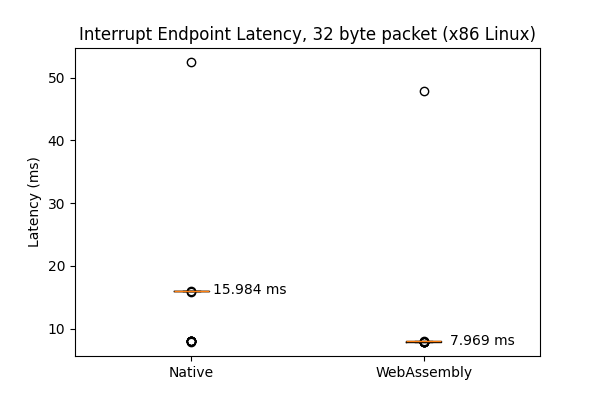
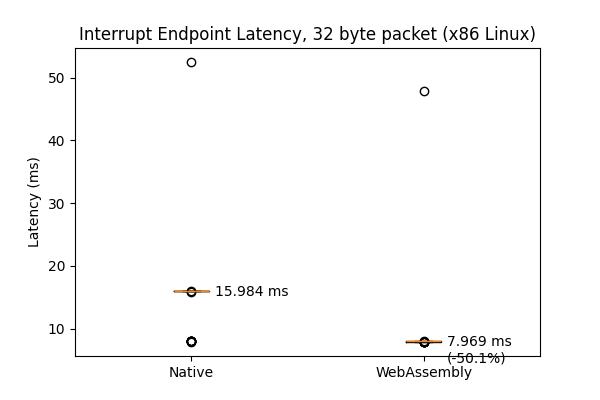
updated figures

Changed region(s): [[0.75, 0.84, 0.87, 0.93], [0.36, 0.69, 0.48, 0.75]]

diff --git a/analyse.py b/analyse.py
@@ -25,31 +25,53 @@ def add_labels_barplot(y):
     ylim = plt.gca().get_ylim()
     yrange = ylim[1] - ylim[0]
     for i in range(len(y)):
-        plt.text(i, y[i] + yrange * 0.0075, f"{y[i]:.0f} kB", ha="center", va="bottom")
+        if i % 2 == 0:
+            plt.text(
+                i, y[i] + yrange * 0.0075, f"{y[i]:.0f} kB", ha="center", va="bottom"
+            )
+        else:
+            percentage_increase = (y[i] - y[i - 1]) / y[i - 1] * 100
+            plt.text(
+                i,
+                y[i] + yrange * 0.0075,
+                f"{y[i]:.0f} kB ({percentage_increase:+.1f}%)",
+                ha="center",
+                va="bottom",
+            )
 
 
 def add_labels_boxplot(y, unit: str, precision: int = 0):
     ylim = plt.gca().get_ylim()
     yrange = ylim[1] - ylim[0]
     for i in range(len(y)):
-        plt.text(
-            i + 1.25,
-            y[i] - yrange * 0.02,
-            f"{y[i]:.{precision}f} {unit}",
-            ha="center",
-            va="bottom",
-        )
+        if i % 2 == 0:
+            plt.text(
+                i + 1.1,
+                y[i] + yrange * 0.02,
+                f"{y[i]:.{precision}f} {unit}",
+                ha="left",
+                va="top",
+            )
+        else:
+            percentage_increase = (y[i] - y[i - 1]) / y[i - 1] * 100
+            plt.text(
+                i + 1.1,
+                y[i] + yrange * 0.02,
+                f"{y[i]:.{precision}f} {unit}\n({percentage_increase:+.1f}%)",
+                ha="left",
+                va="top",
+            )
 
 
-plt.figure(figsize=(16, 6))
+plt.figure(figsize=(10, 6))
 plt.ylabel("File Size (kB)")
 x = [
-    "x86 Linux Baseline",
-    "x86 Linux USB",
-    "AArch64 Linux Baseline",
-    "AArch64 Linux USB",
-    "x86 Windows Baseline",
-    "x86 Windows USB",
+    "x86 Linux\nBaseline",
+    "x86 Linux\nUSB",
+    "AArch64 Linux\nBaseline",
+    "AArch64 Linux\nUSB",
+    "x86 Windows\nBaseline",
+    "x86 Windows\nUSB",
 ]
 y = [x86_nousb, x86_usb, aarch64_nousb, aarch64_usb, windows_nousb, windows_usb]
 colors = [
@@ -102,15 +124,15 @@ avg_aarch64_usb_mem = sum(aarch64_usb_mem) / len(aarch64_usb_mem)
 avg_windows_nousb_mem = sum(windows_nousb_mem) / len(windows_nousb_mem)
 avg_windows_usb_mem = sum(windows_usb_mem) / len(windows_usb_mem)
 
-plt.figure(figsize=(16, 6))
+plt.figure(figsize=(10, 6))
 plt.ylabel("Memory Usage (kB)")
 x = [
-    "x86 Linux Baseline",
-    "x86 Linux USB",
-    "AArch64 Linux Baseline",
-    "AArch64 Linux USB",
-    "x86 Windows Baseline",
-    "x86 Windows USB",
+    "x86 Linux\nBaseline",
+    "x86 Linux\nUSB",
+    "AArch64 Linux\nBaseline",
+    "AArch64 Linux\nUSB",
+    "x86 Windows\nBaseline",
+    "x86 Windows\nUSB",
 ]
 y = [
     avg_x86_nousb_mem,
@@ -152,7 +174,8 @@ def plot_boxplot(df: pd.DataFrame, title: str, filename: str):
     # fig = plt.figure(figsize=(6, 6))
     df.plot(kind="box", title=title, figsize=(6, 4))
     plt.ylabel("Speed (MB/s)")
-    add_labels_boxplot([df["Native"].median(), df["WebAssembly"].median()], "MB/s")
+    add_labels_boxplot([df["Native"].median(), df["WebAssembly"].median()], "MB/s", 1)
+    plt.gca()
     plt.savefig(filename)
     plt.close()
 
@@ -250,6 +273,13 @@ plot_boxplot(
     "figures/rnd_write_windows.png",
 )
 
+print("x86 Linux webassembly vs native median")
+print(f"Delta: {np.median(seq_read_x86['Native']) - np.median(seq_read_x86['WebAssembly']):.2f} MB/s")
+print("AArch64 Linux webassembly vs native median")
+print(f"Delta: {np.median(seq_read_aarch64['Native']) - np.median(seq_read_aarch64['WebAssembly']):.2f} MB/s")
+print("Windows webassembly vs native median")
+print(f"Delta: {np.median(seq_read_windows['Native']) - np.median(seq_read_windows['WebAssembly']):.2f} MB/s")
+
 ######### Latency #########
 
 
@@ -325,20 +355,21 @@ def plot_latencies(latencies: list[np.ndarray], title: str, filename: str):
     plt.savefig(filename)
     plt.close()
 
+
 plot_latencies(
     [latency_bulk_x86_native_32bytes, latency_bulk_x86_wasm_32bytes],
     "Bulk Endpoint Latency, 32 byte packet (x86 Linux)",
-    "figures/latency_32bytes_x86.png",
+    "figures/latency_32bytes_bulk_x86.png",
 )
 plot_latencies(
     [latency_bulk_aarch64_native_32bytes, latency_bulk_aarch64_wasm_32bytes],
     "Bulk Endpoint Latency, 32 byte packet (AArch64 Linux)",
-    "figures/latency_32bytes_aarch64.png",
+    "figures/latency_32bytes_bulk_aarch64.png",
 )
 plot_latencies(
     [latency_bulk_windows_native_32bytes, latency_bulk_windows_wasm_32bytes],
     "Bulk Endpoint Latency, 32 byte packet (x86 Windows)",
-    "figures/latency_32bytes_windows.png",
+    "figures/latency_32bytes_bulk_windows.png",
 )
 
 plot_latencies(
@@ -348,7 +379,7 @@ plot_latencies(
 )
 plot_latencies(
     [latency_interrupt_aarch64_native_32bytes, latency_interrupt_aarch64_wasm_32bytes],
-    "Interrupt Endpoint Latency, 32 byte packet (AArch64 Linux)",    
+    "Interrupt Endpoint Latency, 32 byte packet (AArch64 Linux)",
     "figures/latency_32bytes_interrupt_aarch64.png",
 )
 plot_latencies(
@@ -363,12 +394,18 @@ plot_latencies(
     "figures/latency_32bytes_isochronous_x86.png",
 )
 plot_latencies(
-    [latency_isochronous_aarch64_native_32bytes, latency_isochronous_aarch64_wasm_32bytes],
+    [
+        latency_isochronous_aarch64_native_32bytes,
+        latency_isochronous_aarch64_wasm_32bytes,
+    ],
     "Isochronous Endpoint Latency, 32 byte packet (AArch64 Linux)",
     "figures/latency_32bytes_isochronous_aarch64.png",
 )
 plot_latencies(
-    [latency_isochronous_windows_native_32bytes, latency_isochronous_windows_wasm_32bytes],
+    [
+        latency_isochronous_windows_native_32bytes,
+        latency_isochronous_windows_wasm_32bytes,
+    ],
     "Isochronous Endpoint Latency, 32 byte packet (x86 Windows)",
     "figures/latency_32bytes_isochronous_windows.png",
 )
